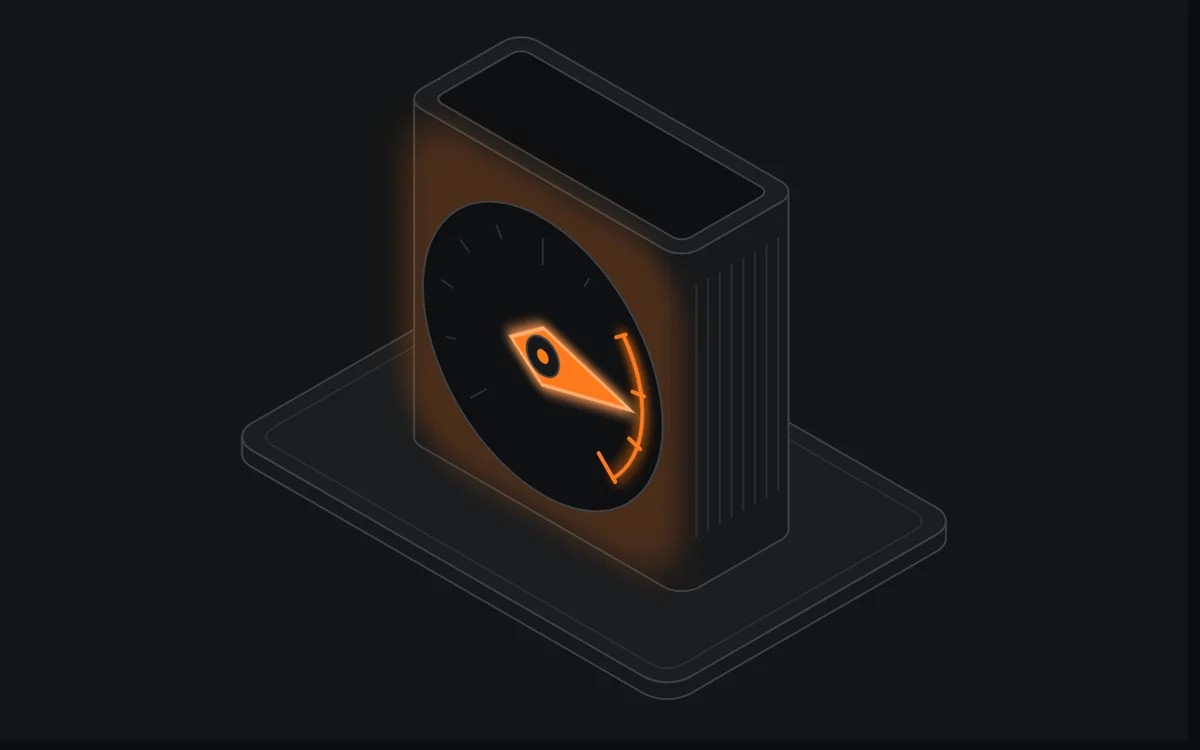
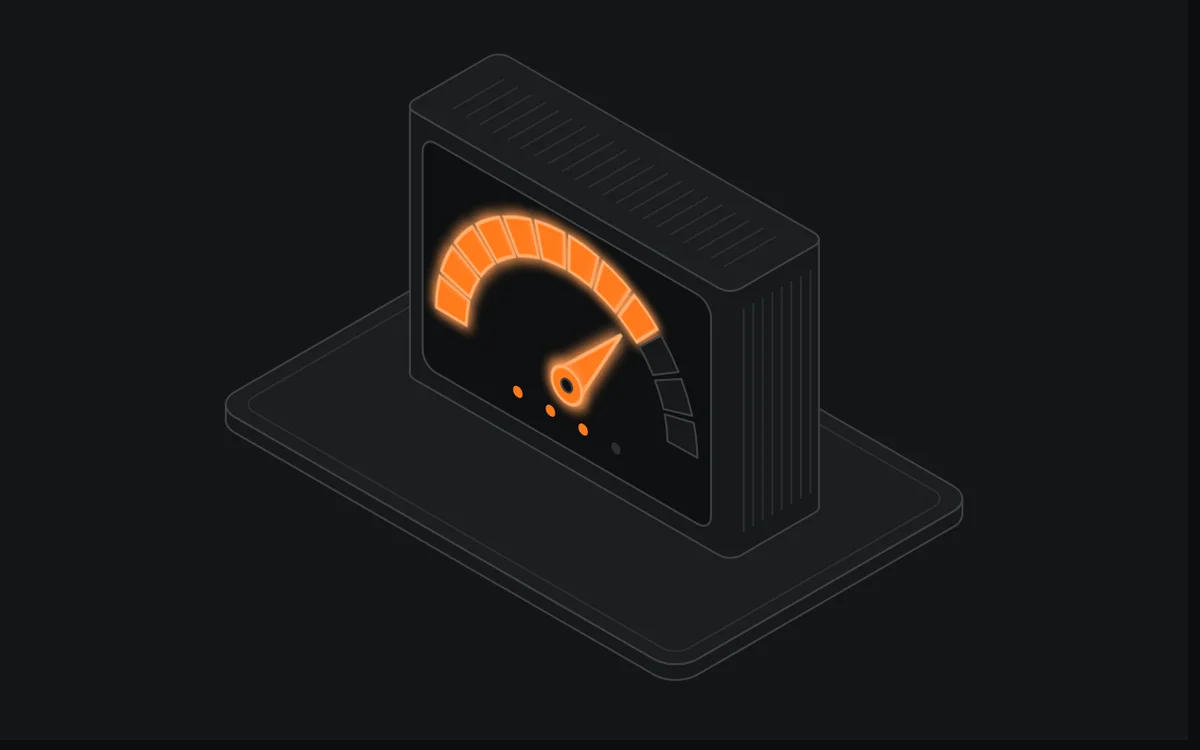
Performance cover: console with a segmented half-dial lit into the high range

diff --git a/tools/covers/covers-b.js b/tools/covers/covers-b.js
@@ -38,30 +38,34 @@ FIGS.push({
   },
 });
 
-// 5 · Performance: a dial gauge with a lit needle swung into the upper range.
+// 5 · Performance: a console with a big half-dial; the segment band is lit up to the high range
+// and the needle points into it.
 FIGS.push({
-  id: 'performance', name: 'Performance', aria: 'Um manômetro com o ponteiro aceso.',
+  id: 'performance', name: 'Performance', aria: 'Painel com um mostrador; a faixa acesa vai até a zona alta e o ponteiro aponta para ela.',
   mount(stage, api) {
-    const K = api.iso.frame([[0, 0, 0], [300, 0, 0], [0, 200, 0], [300, 200, 0], [60, 60, 210]]);
+    const W = 340, D = 220, BX = 50, BY = 60, BW = 240, BD = 70, BH = 170;
+    const K = api.iso.frame([[0, 0, 0], [W, 0, 0], [0, D, 0], [W, D, 0], [BX, BY, 10 + BH]]);
     const { TOP, FRONT, SIDE, box } = K;
-    let s = plateB(K, 300, 200);
-    s += box(60, 60, 10, 190, 80, 200, 12);
-    s += `<g transform="${SIDE(250, 140, 210)}">${api.iso.slits(10, 70, 8, 20, 170)}</g>`;
-    s += `<g transform="${TOP(60, 60, 210)}"><rect class="face recess" x="10" y="10" width="170" height="60" rx="6"/></g>`;
-    const cx = 95, cy = 105, R = 74;
-    const pt = (deg, r) => { const a = deg * Math.PI / 180; return [cx + Math.cos(a) * r, cy - Math.sin(a) * r]; };
-    let f = `<rect class="halo hot" filter="url(#bloom)" x="0" y="0" width="190" height="200" rx="40"/>`;
-    f += `<circle class="face recess" cx="${cx}" cy="${cy}" r="${R + 8}"/><circle class="glass" cx="${cx}" cy="${cy}" r="${R}"/>`;
-    for (let i = 0; i <= 10; i++) { const d = 225 - i * 27, a = pt(d, R - 4), b = pt(d, R - (i % 5 === 0 ? 20 : 12)); f += `<path class="${i >= 7 ? 'wire hot' : 'detail'}" d="M${a} L${b}"/>`; }
-    // Lit arc over the high range.
-    const a0 = pt(225 - 7 * 27, R - 6), a1 = pt(-45, R - 6);
-    f += `<path class="wire hot" filter="url(#glow)" d="M${a0} A${R - 6} ${R - 6} 0 0 1 ${a1}"/>`;
-    // Needle pointing into the lit range.
-    const tip = pt(225 - 8.4 * 27, R - 14), l = pt(225 - 8.4 * 27 + 90, 17), r = pt(225 - 8.4 * 27 - 90, 17);
-    f += `<polygon class="lit" filter="url(#glow)" points="${tip} ${l} ${pt(225 - 8.4 * 27 + 180, 22)} ${r}"/>`;
-    f += `<circle class="face" cx="${cx}" cy="${cy}" r="11"/><circle class="led hot" cx="${cx}" cy="${cy}" r="4"/>`;
-    s += `<g transform="${FRONT(60, 140, 210)}">${f}</g>`;
-    stage.setAttribute('viewBox', cover(K, -0.04)); stage.innerHTML = s;
+    let s = plateB(K, W, D);
+    s += box(BX, BY, 10, BW, BD, BH, 8);
+    s += `<g transform="${TOP(BX, BY, 10 + BH)}">${api.iso.slits(20, BW - 20, 10, 16, BD - 16)}</g>`;
+    s += `<g transform="${SIDE(BX + BW, BY + BD, 10 + BH)}">${api.iso.slits(10, BD - 10, 7, 14, BH - 14)}</g>`;
+    // Dial on the front face (local units: u along x, v down from the top edge).
+    const cx = BW / 2, cy = 118, r1 = 74, r2 = 96, N = 12, LIT = 9;
+    const pt = (r, t) => `${(cx + r * Math.cos(t)).toFixed(1)} ${(cy + r * Math.sin(t)).toFixed(1)}`;
+    let f = `<rect class="face recess" x="14" y="12" width="${BW - 28}" height="${BH - 24}" rx="10"/>`;
+    for (let i = 0; i < N; i++) {
+      const t0 = Math.PI + (i + 0.08) * Math.PI / N, t1 = Math.PI + (i + 0.92) * Math.PI / N, on = i < LIT;
+      f += `<path class="${on ? 'lit' : 'face'}" ${on ? 'filter="url(#glow)"' : ''} d="M${pt(r1, t0)} L${pt(r2, t0)} A${r2} ${r2} 0 0 1 ${pt(r2, t1)} L${pt(r1, t1)} A${r1} ${r1} 0 0 0 ${pt(r1, t0)} Z"/>`;
+    }
+    // Needle: a slim lit wedge from the hub toward the end of the lit band.
+    const tn = Math.PI + (LIT - 0.5) * Math.PI / N, w = 0.09;
+    f += `<path class="lit" filter="url(#glow)" d="M${pt(66, tn)} L${pt(10, tn + Math.PI / 2 + w)} L${pt(10, tn - Math.PI / 2 - w)} Z"/>`;
+    f += `<circle class="lit" filter="url(#glow)" cx="${cx}" cy="${cy}" r="11"/><circle class="face recess" cx="${cx}" cy="${cy}" r="4"/>`;
+    // Status LEDs under the dial.
+    for (let i = 0; i < 4; i++) f += `<circle class="led ${i < 3 ? 'hot' : ''}" cx="${cx - 36 + i * 24}" cy="${cy + 22}" r="3.5"/>`;
+    s += `<g transform="${FRONT(BX, BY + BD, 10 + BH)}">${f}</g>`;
+    stage.setAttribute('viewBox', cover(K, -0.02)); stage.innerHTML = s;
     return {};
   },
 });
